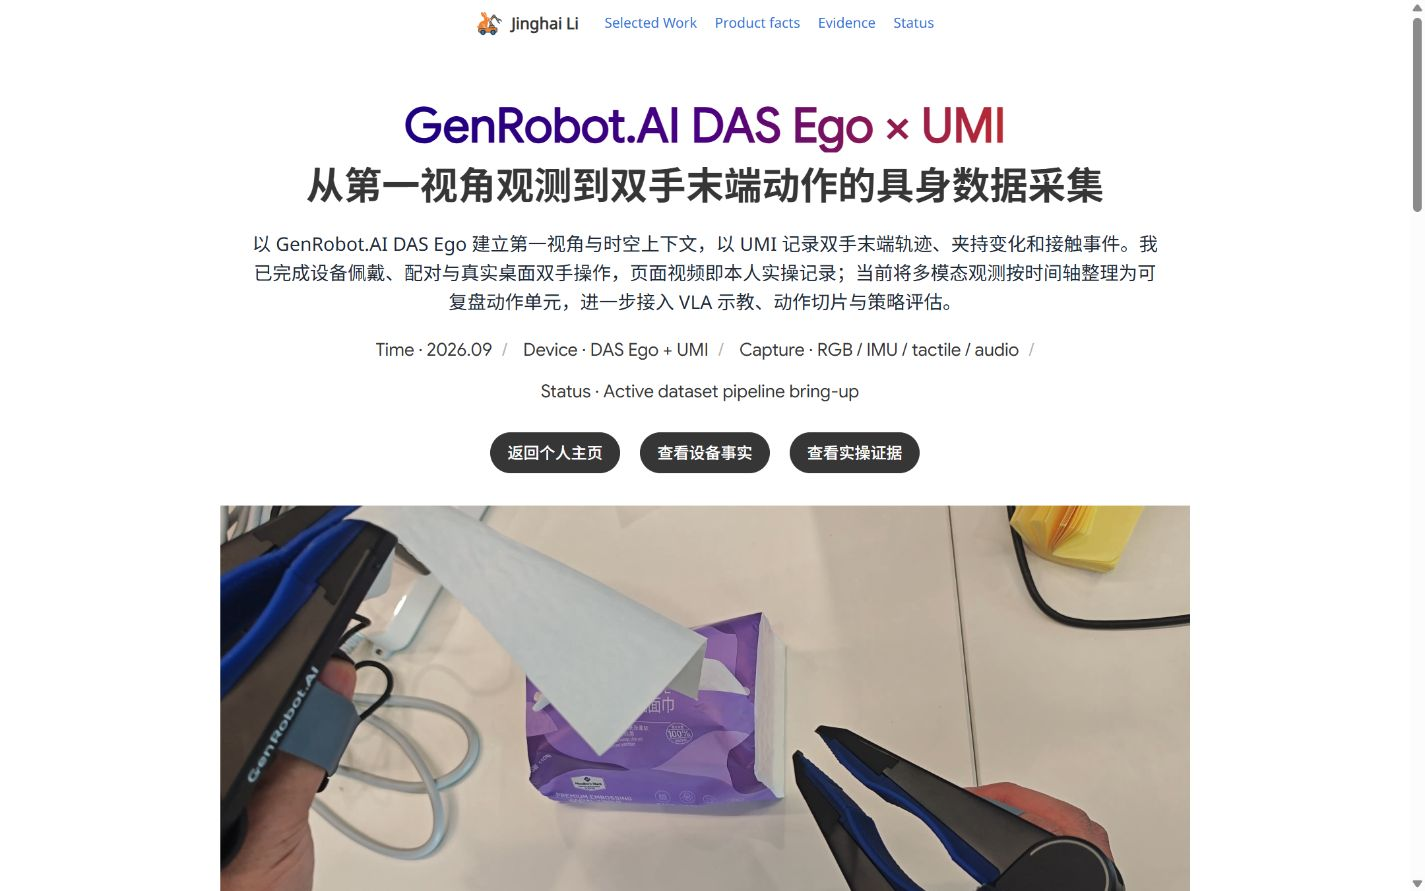
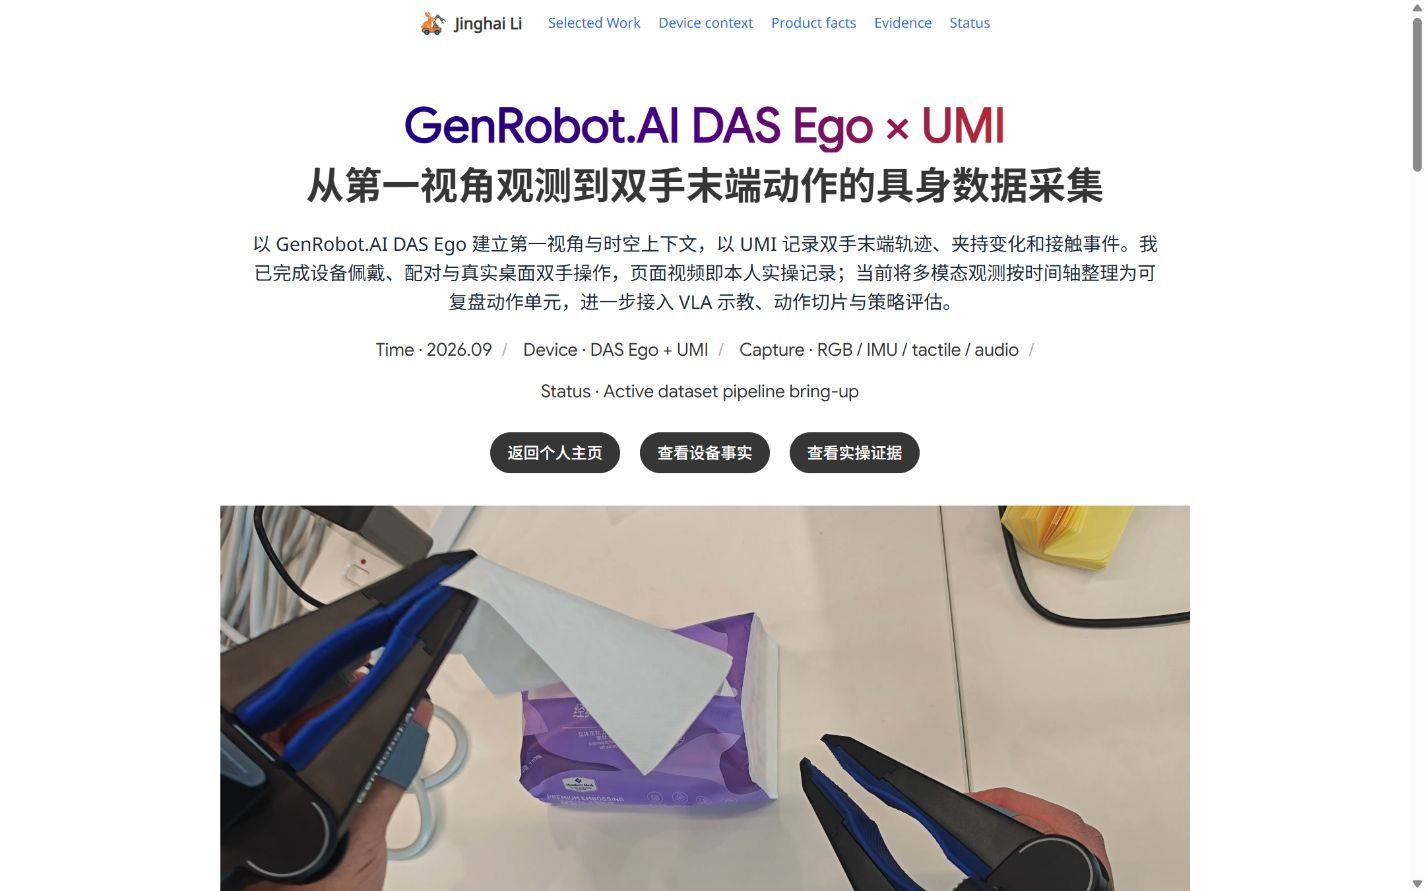
补充DAS Ego官方资料与实机研究对照图文
在Ego与UMI详情页新增设备结构、规范佩戴、配对流程、坐标系和Monitor回放五组官方截图，并逐项连接本人已完成的佩戴配对、双手操作、时间轴整理与VLA示教工作；更新README和桌面、手机证据，完成图片加载、五图单列与无溢出验证。

diff --git a/RabbitRobot/projects/rabbitrobot-ego-umi.html b/RabbitRobot/projects/rabbitrobot-ego-umi.html
@@ -17,6 +17,7 @@
       </a>
       <div class="nav-links">
         <a href="../../index.html#work-title">Selected Work</a>
+        <a href="#device-reference">Device context</a>
         <a href="#facts">Product facts</a>
         <a href="#evidence">Evidence</a>
         <a href="#status">Status</a>
@@ -54,6 +55,37 @@
   </header>
 
   <main>
+    <section class="section is-soft" id="device-reference">
+      <div class="container">
+        <p class="kicker">Device Context</p>
+        <h2>把官方设备结构，接入我的实机工作流</h2>
+        <p class="section-lead">下面的图像来自 DAS Ego 产品资料，负责说明设备结构、佩戴约束、配对入口、坐标定义和回放界面；旁边的文字只解释它们如何进入我的 EGO + UMI 实操，不把产品截图冒充成实验结果。</p>
+        <div class="gallery ego-reference-grid">
+          <figure>
+            <img src="../images/rabbitrobot/das_ego_official_overview.jpg" alt="DAS Ego 设备结构概览，标注六路摄像头、电池包、音量键与电源键" loading="lazy" decoding="async">
+            <figcaption><strong>01 / Device topology</strong><br>六路摄像头、电池包、音量键与电源键共同定义了采集前的硬件检查边界。对我而言，先确认供电、镜头覆盖和设备状态，才有资格谈后续的动作数据。</figcaption>
+          </figure>
+          <figure>
+            <img src="../images/rabbitrobot/das_ego_official_wearing.png" alt="DAS Ego 设备佩戴规范示意，强调设备平行、贴近眉毛和标志居中" loading="lazy" decoding="async">
+            <figcaption><strong>02 / Egocentric alignment</strong><br>设备平行、贴近眉毛并保持标志居中，是第一视角一致性的前置条件。我已经把佩戴与配对跑通，避免把“能看到”误当成稳定的具身观测入口。</figcaption>
+          </figure>
+          <figure>
+            <img src="../images/rabbitrobot/das_ego_official_pairing.png" alt="DAS Ego 与末端设备的官方配对流程界面" loading="lazy" decoding="async">
+            <figcaption><strong>03 / Pairing handshake</strong><br>官方配对流程把 Ego 与末端设备拉进同一工作链路。我的实操已覆盖设备配对和双手桌面操作，下一步按时间戳核对视觉、姿态、末端动作与接触事件。</figcaption>
+          </figure>
+          <figure>
+            <img src="../images/rabbitrobot/das_ego_official_world_axis.png" alt="DAS Ego 世界坐标系示意图" loading="lazy" decoding="async">
+            <figcaption><strong>04 / Coordinate frame</strong><br>世界坐标与局部坐标是把头部姿态、桌面目标和 UMI 末端轨迹对齐的坐标约束。我会把它用于动作切片、失败回放和策略评估，而不是只写一句“支持 SLAM”。</figcaption>
+          </figure>
+          <figure>
+            <img src="../images/rabbitrobot/das_ego_official_monitor.png" alt="DAS Ego Monitor 本地数据回放与录制详情界面" loading="lazy" decoding="async">
+            <figcaption><strong>05 / Replay and curation</strong><br>Monitor 负责打开本地数据、查看录制详情并进行回放。我的工作重点是把实操记录沉淀成可复盘动作单元，为 VLA 示教和策略评估准备更干净的多模态输入。</figcaption>
+          </figure>
+        </div>
+        <p class="source-note">图片说明：以上设备结构、佩戴、配对、坐标与回放界面截图截取自 GenRobot.AI DAS Ego 产品资料；页面中的横屏视频与四张证据帧来自本人实操。</p>
+      </div>
+    </section>
+
     <section class="section" id="facts">
       <div class="container">
         <p class="kicker">Product Facts</p>

diff --git a/README.md b/README.md
@@ -14,7 +14,7 @@ Jinghai Li 的个人主页，保留原有白色横线纸背景、蓝橙配色、
 | 视频处理 | `ego_umi_2026_demo_4k.mp4`（约 `90MB`），保持 `3840×2160 / 60fps`，去除 `-90°` 显示旋转并以高码率 H.264 输出横屏；桌面原始 `144MB` 文件不改动 |
 | 真实画面 | `ego_umi_2026_cover_4k.png`、`ego_umi_2026_04_4k.png`、`ego_umi_2026_08_4k.png`、`ego_umi_2026_14_4k.png` 均为 `3840×2160` 原始尺寸无损 PNG |
 | 技术叙事 | 依据 GenRobot.AI DAS Ego 与 DAS / UMI 产品资料，归纳 6 路 RGB、约 270° 视场、6 轴 IMU、UMI 触觉/末端状态、MCAP 落盘和 VLA 示教方向；页面不放置外部手册地址 |
-| 详情页面 | 新增 `RabbitRobot/projects/rabbitrobot-ego-umi.html`，包含横屏视频、官方规格表、四张实操帧、研究定位与诚实状态 |
+| 详情页面 | `RabbitRobot/projects/rabbitrobot-ego-umi.html` 新增设备资料图文区，包含结构、佩戴、配对、坐标、回放 5 张截图，并与本人实操证据分层 |
 | 验证结果 | 本地浏览器确认首页与详情页均解码 `3840×2160 / 60fps` 横屏视频；4 行规格、4 张 `3840×2160` 无损 PNG 证据帧均正常；桌面与 `390×844` 手机端无横向溢出；页面官方手册地址检查为 0 |
 
 ![DAS Ego × UMI 横屏实操证据](RabbitRobot/images/rabbitrobot/ego_umi_2026_cover_4k.png)
@@ -28,6 +28,10 @@ Jinghai Li 的个人主页，保留原有白色横线纸背景、蓝橙配色、
 详情页首屏实际效果：
 
 ![EGO + UMI 详情页](docs/images/updates/2026-08-31-ego-umi/detail-hero.png)
+
+详情页设备资料与实操对照区：
+
+![DAS Ego 设备资料图文区](docs/images/updates/2026-08-31-ego-umi/detail-device-context.png)
 
 390×844 手机端实际效果：
 
